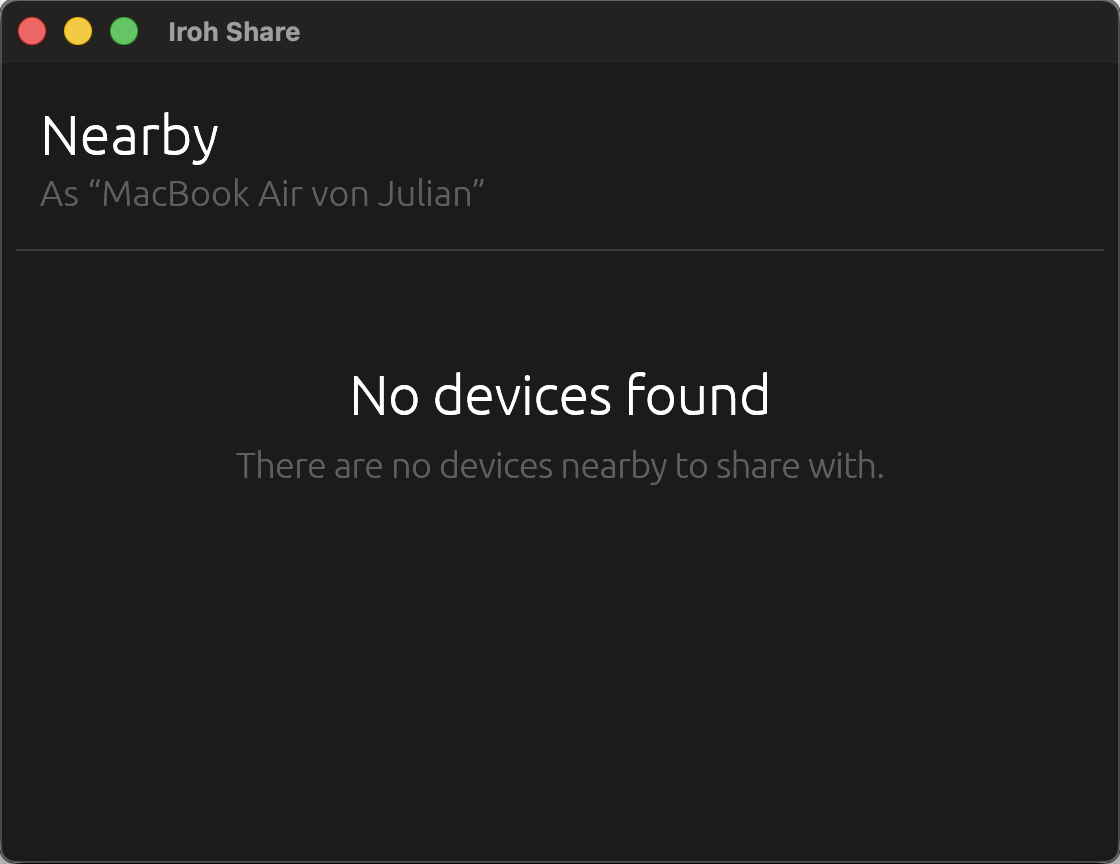
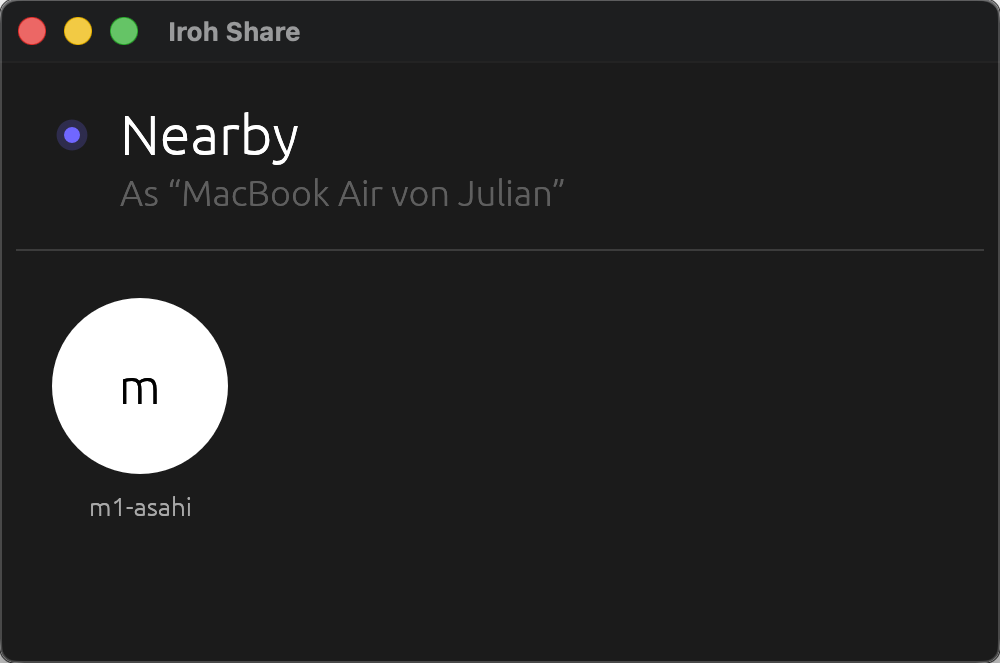
updated README

diff --git a/README.md b/README.md
@@ -9,8 +9,8 @@ The receiver must approve each transfer before anything is written to disk.
 
 ## Screenshots
 
-| Nearby devices | Sending a file |
-| --- | --- |
+| Nearby devices                                 | Sending a file                                  |
+| ---------------------------------------------- | ----------------------------------------------- |
 | ![Nearby devices](docs/screenshots/nearby.png) | ![Sending a file](docs/screenshots/sending.png) |
 
 ## Roadmap
@@ -22,7 +22,7 @@ The receiver must approve each transfer before anything is written to disk.
   - [ ] Multiple files per transfer
 - [x] Desktop UI
   - [x] Drag and drop
-  - [ ] Polish the UI
+  - [x] Polish the UI
   - [ ] Transfer progress
 - [x] Receiver approval
 - [x] Custom download location
@@ -69,14 +69,14 @@ Sender ◀─ decision ─ Receiver
 Sender ── blob ───▶ Receiver
 ```
 
-| Module | Responsibility |
-| --- | --- |
-| `mdns.rs` | Discovers nearby devices |
-| `protocol.rs` | Encodes offers and transfer responses |
-| `sender.rs` | Imports and sends files |
+| Module        | Responsibility                         |
+| ------------- | -------------------------------------- |
+| `mdns.rs`     | Discovers nearby devices               |
+| `protocol.rs` | Encodes offers and transfer responses  |
+| `sender.rs`   | Imports and sends files                |
 | `receiver.rs` | Approves, downloads, and exports files |
-| `ui.rs` | Desktop interface |
-| `cli.rs` | Terminal interface |
+| `ui.rs`       | Desktop interface                      |
+| `cli.rs`      | Terminal interface                     |
 
 ## References
 
